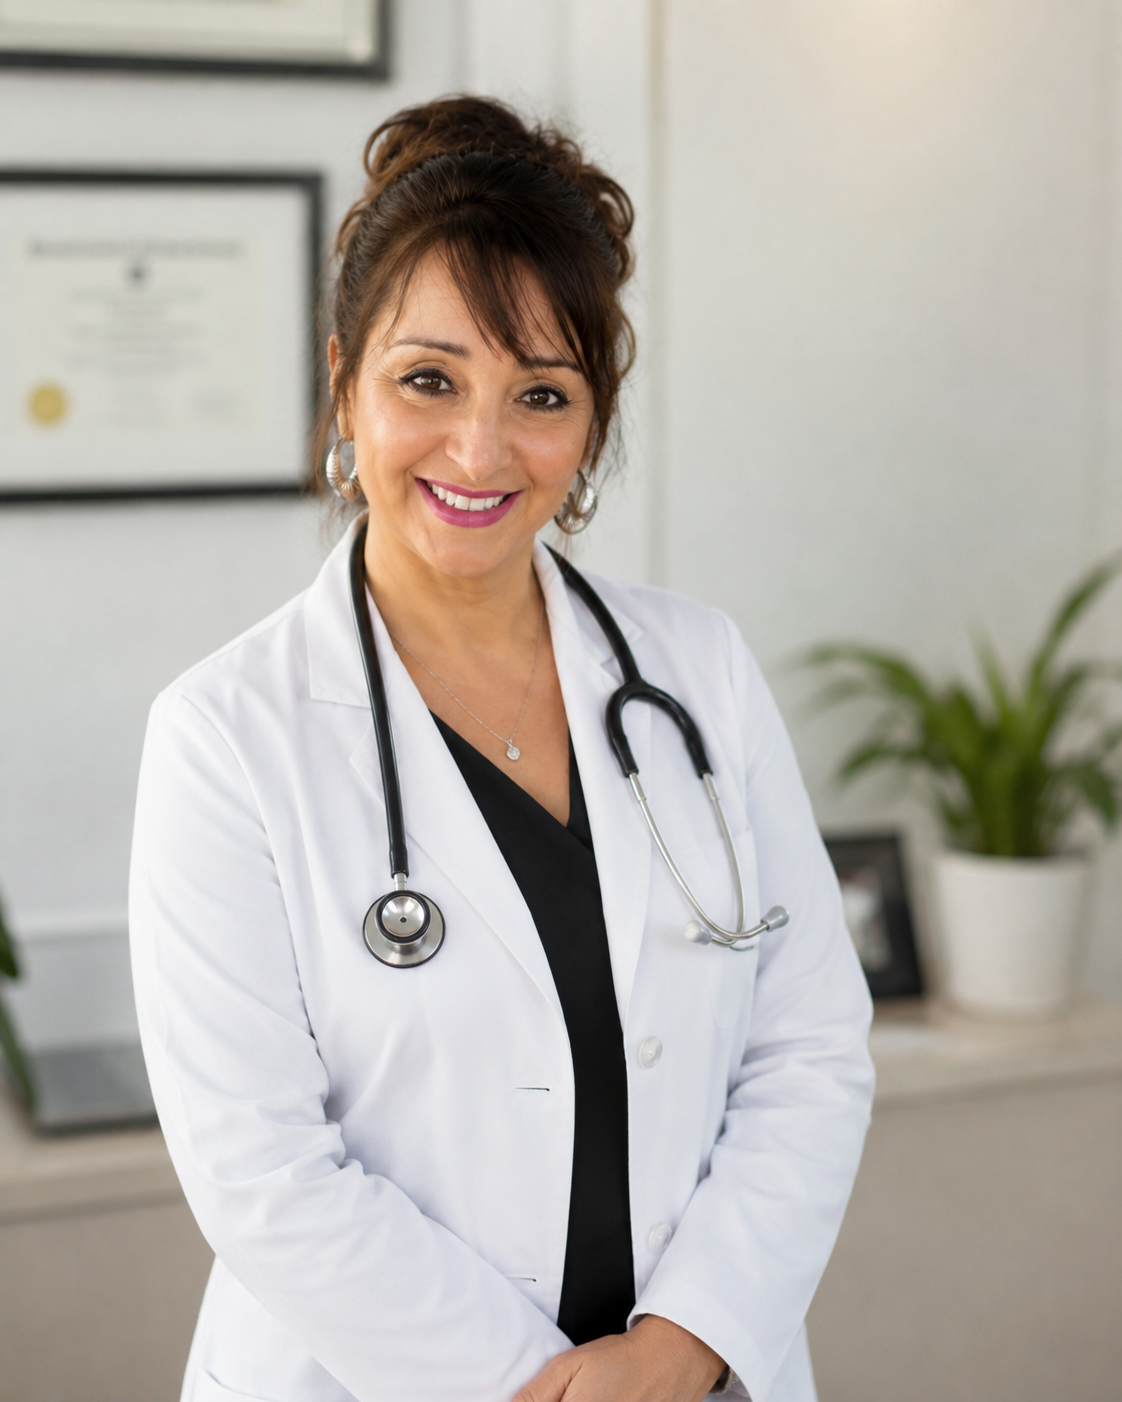
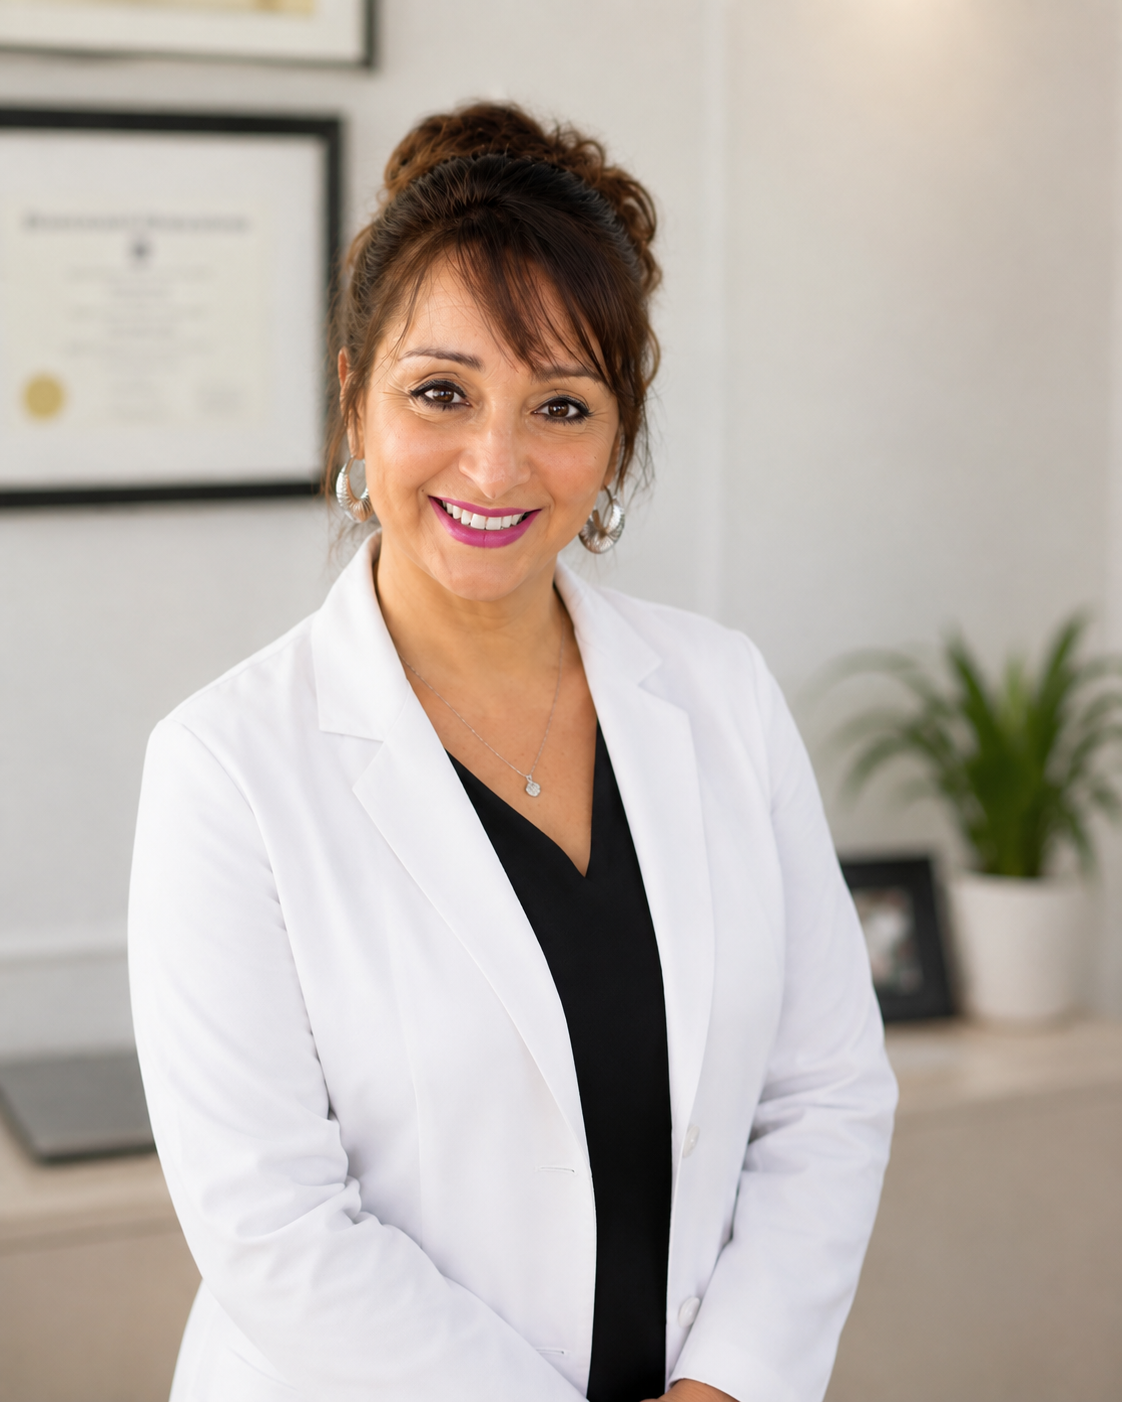
doctors section and page added

diff --git a/src/components/sections/Doctors.jsx b/src/components/sections/Doctors.jsx
@@ -1,0 +1,63 @@
+import { motion } from 'framer-motion';
+
+const Doctors = () => {
+  const doctors = [
+    {
+      name: "Maria L Valenzuela",
+      role: "30+ Years Experience • Registered Nurse",
+      image: "/images/Maria%20L%20Valenzuela.png",
+      bio: "With over 30 + years of experience as a Registered Nurse, I have dedicated my career to caring for others with compassion, knowledge, and genuine heart. My extensive background includes Gastroenterology, Liver Transplant coordinator, Medical-Surgical nursing and other medical specialties, giving me a well-rounded understanding of patient care and wellness. As a bilingual nurse, I believe communication is at the heart of exceptional care. I strive to create an environment where every person feels comfortable, respected, heard and cared for. For me, nursing has never simply been a career-it has been a calling."
+    },
+    {
+      name: "Dr. Dianne Rudolph",
+      role: "20+ Years Experience • Nurse Practitioner",
+      image: "/images/Dr-Dianna.png",
+      bio: "Dr. Dianne Rudolph is a doctorally prepared nurse practitioner with more than 20 years of experience as a nurse practitioner with specialization in wound, ostomy and continence care. She has worked across a variety of settings with adult and older adult patients. She brings her expertise in managing patients with urinary and pelvic floor issues to the clinic and works with a team of highly specialized RNs also experienced in this field. Together they provide a comprehensive, non-invasive approach to patients with issues such as stress urinary incontinence, urge incontinence, overflow incontinence, erectile dysfunction and associated issues."
+    }
+  ];
+
+  return (
+    <section className="py-12 md:py-24 bg-white">
+      <div className="container mx-auto px-4 lg:px-8">
+        <div className="text-center mb-12 md:mb-16">
+          <p className="text-primary font-heading uppercase tracking-widest text-sm mb-4 font-normal">
+            Meet Our Experts
+          </p>
+          <h2 className="text-3xl md:text-5xl font-heading font-normal text-dark">
+            Our Specialists
+          </h2>
+        </div>
+
+        <div className="grid grid-cols-1 md:grid-cols-2 gap-12 max-w-5xl mx-auto">
+          {doctors.map((doctor, index) => (
+            <motion.div
+              key={index}
+              initial={{ opacity: 0, y: 20 }}
+              whileInView={{ opacity: 1, y: 0 }}
+              viewport={{ once: true }}
+              transition={{ delay: index * 0.1 }}
+              className="bg-smoke border-2 border-dark rounded-[10px] overflow-hidden flex flex-col shadow-sm"
+            >
+              <div className="w-full h-[400px] md:h-[450px] relative border-b-2 border-dark shrink-0">
+                <img 
+                  src={doctor.image} 
+                  alt={doctor.name} 
+                  className="w-full h-full object-cover object-top"
+                />
+              </div>
+              <div className="p-8 flex flex-col flex-grow">
+                <h3 className="text-2xl font-heading font-bold text-dark mb-2">{doctor.name}</h3>
+                <p className="text-primary font-heading font-semibold text-lg mb-6">{doctor.role}</p>
+                <p className="font-body text-dark/80 font-medium leading-relaxed">
+                  {doctor.bio}
+                </p>
+              </div>
+            </motion.div>
+          ))}
+        </div>
+      </div>
+    </section>
+  );
+};
+
+export default Doctors;

diff --git a/src/App.jsx b/src/App.jsx
@@ -12,6 +12,7 @@ import AboutChairPage from './pages/AboutChairPage';
 import ConditionsPage from './pages/ConditionsPage';
 import FAQPage from './pages/FAQPage';
 import ContactPage from './pages/ContactPage';
+import SpecialistsPage from './pages/SpecialistsPage';
 
 // Legal Pages
 import PrivacyPolicyPage from './pages/PrivacyPolicyPage';
@@ -51,6 +52,7 @@ function App() {
           <Route path="/symptoms" element={<SymptomsPage />} />
           <Route path="/about-chair" element={<AboutChairPage />} />
           <Route path="/conditions" element={<ConditionsPage />} />
+          <Route path="/specialists" element={<SpecialistsPage />} />
           <Route path="/faqs" element={<FAQPage />} />
           <Route path="/contact" element={<ContactPage />} />
           <Route path="/privacy-policy" element={<PrivacyPolicyPage />} />

diff --git a/src/pages/Home.jsx b/src/pages/Home.jsx
@@ -9,6 +9,7 @@ import WhyChooseUs from '../components/sections/WhyChooseUs';
 import Testimonials from '../components/sections/Testimonials';
 import FAQ from '../components/sections/FAQ';
 import Contact from '../components/sections/Contact';
+import Doctors from '../components/sections/Doctors';
 
 const Home = () => {
   return (
@@ -22,6 +23,7 @@ const Home = () => {
         <ForEveryone />
         <WhyChooseUs />
         <Testimonials />
+        <Doctors />
         <FAQ />
         <Contact />
       </main>

diff --git a/src/pages/SpecialistsPage.jsx b/src/pages/SpecialistsPage.jsx
@@ -1,0 +1,15 @@
+import Doctors from '../components/sections/Doctors';
+import Contact from '../components/sections/Contact';
+
+const SpecialistsPage = () => {
+  return (
+    <div className="bg-white selection:bg-lime selection:text-dark min-h-screen">
+      <main className="pt-24 md:pt-32">
+        <Doctors />
+        <Contact />
+      </main>
+    </div>
+  );
+};
+
+export default SpecialistsPage;

diff --git a/src/components/layout/Navbar.jsx b/src/components/layout/Navbar.jsx
@@ -18,6 +18,7 @@ const Navbar = () => {
     { name: 'Symptoms', href: '/symptoms' },
     { name: 'The Gazelle Chair', href: '/about-chair' },
     { name: 'Conditions', href: '/conditions' },
+    { name: 'Our Specialists', href: '/specialists' },
     { name: 'FAQs', href: '/faqs' },
     { name: 'Contact', href: '/contact' },
   ];
